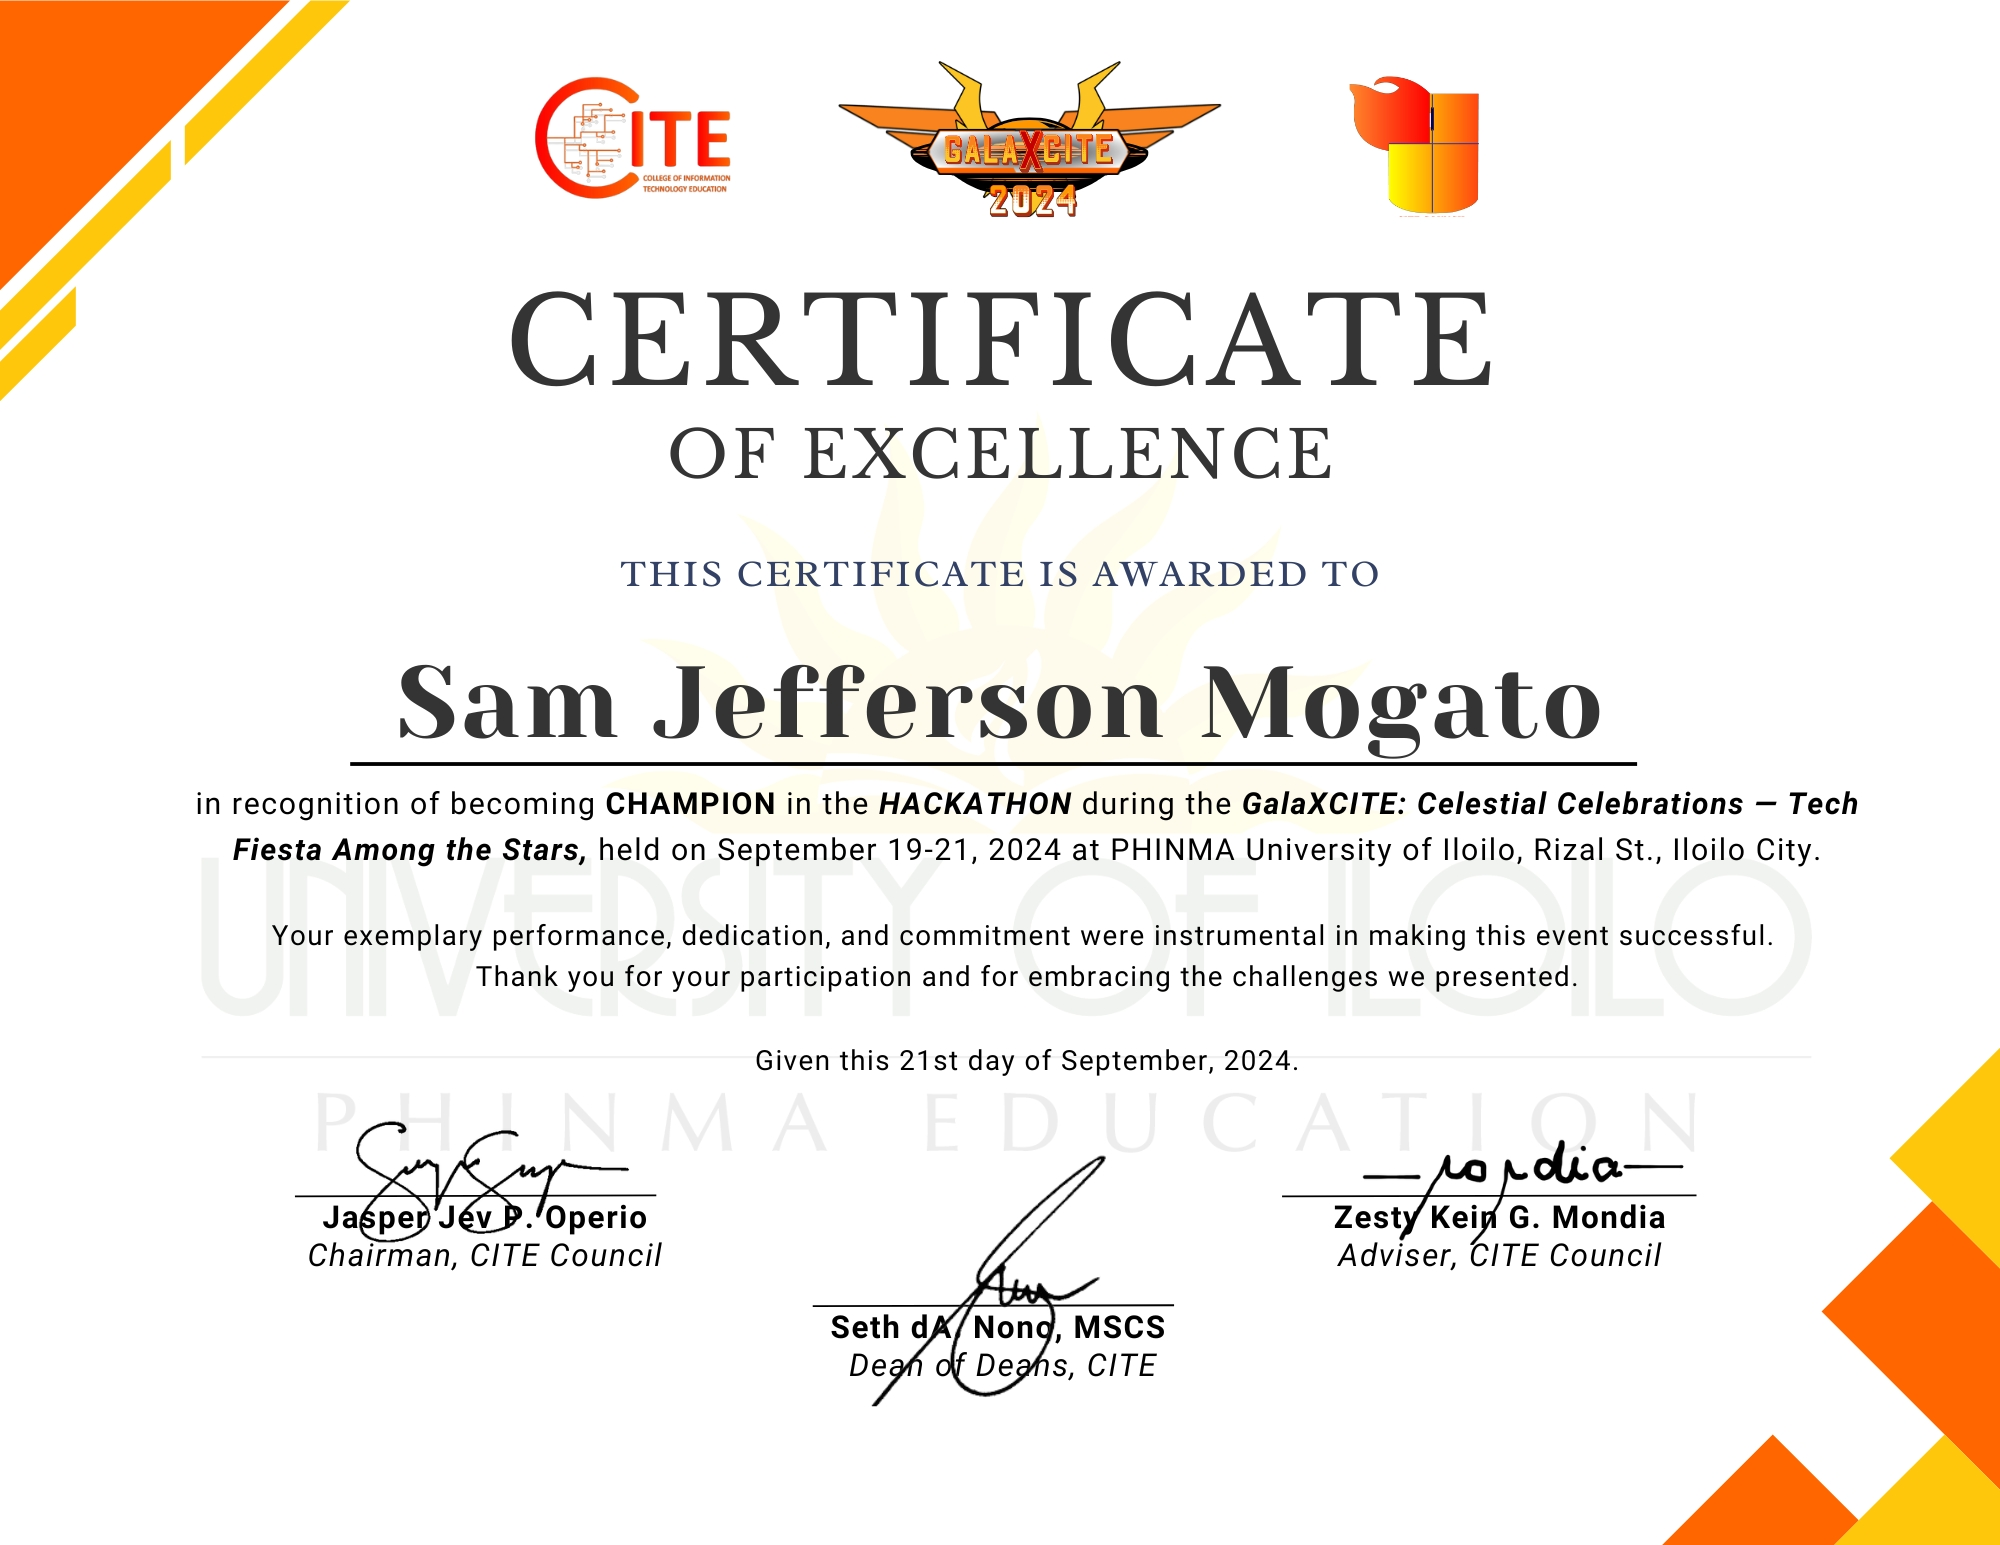
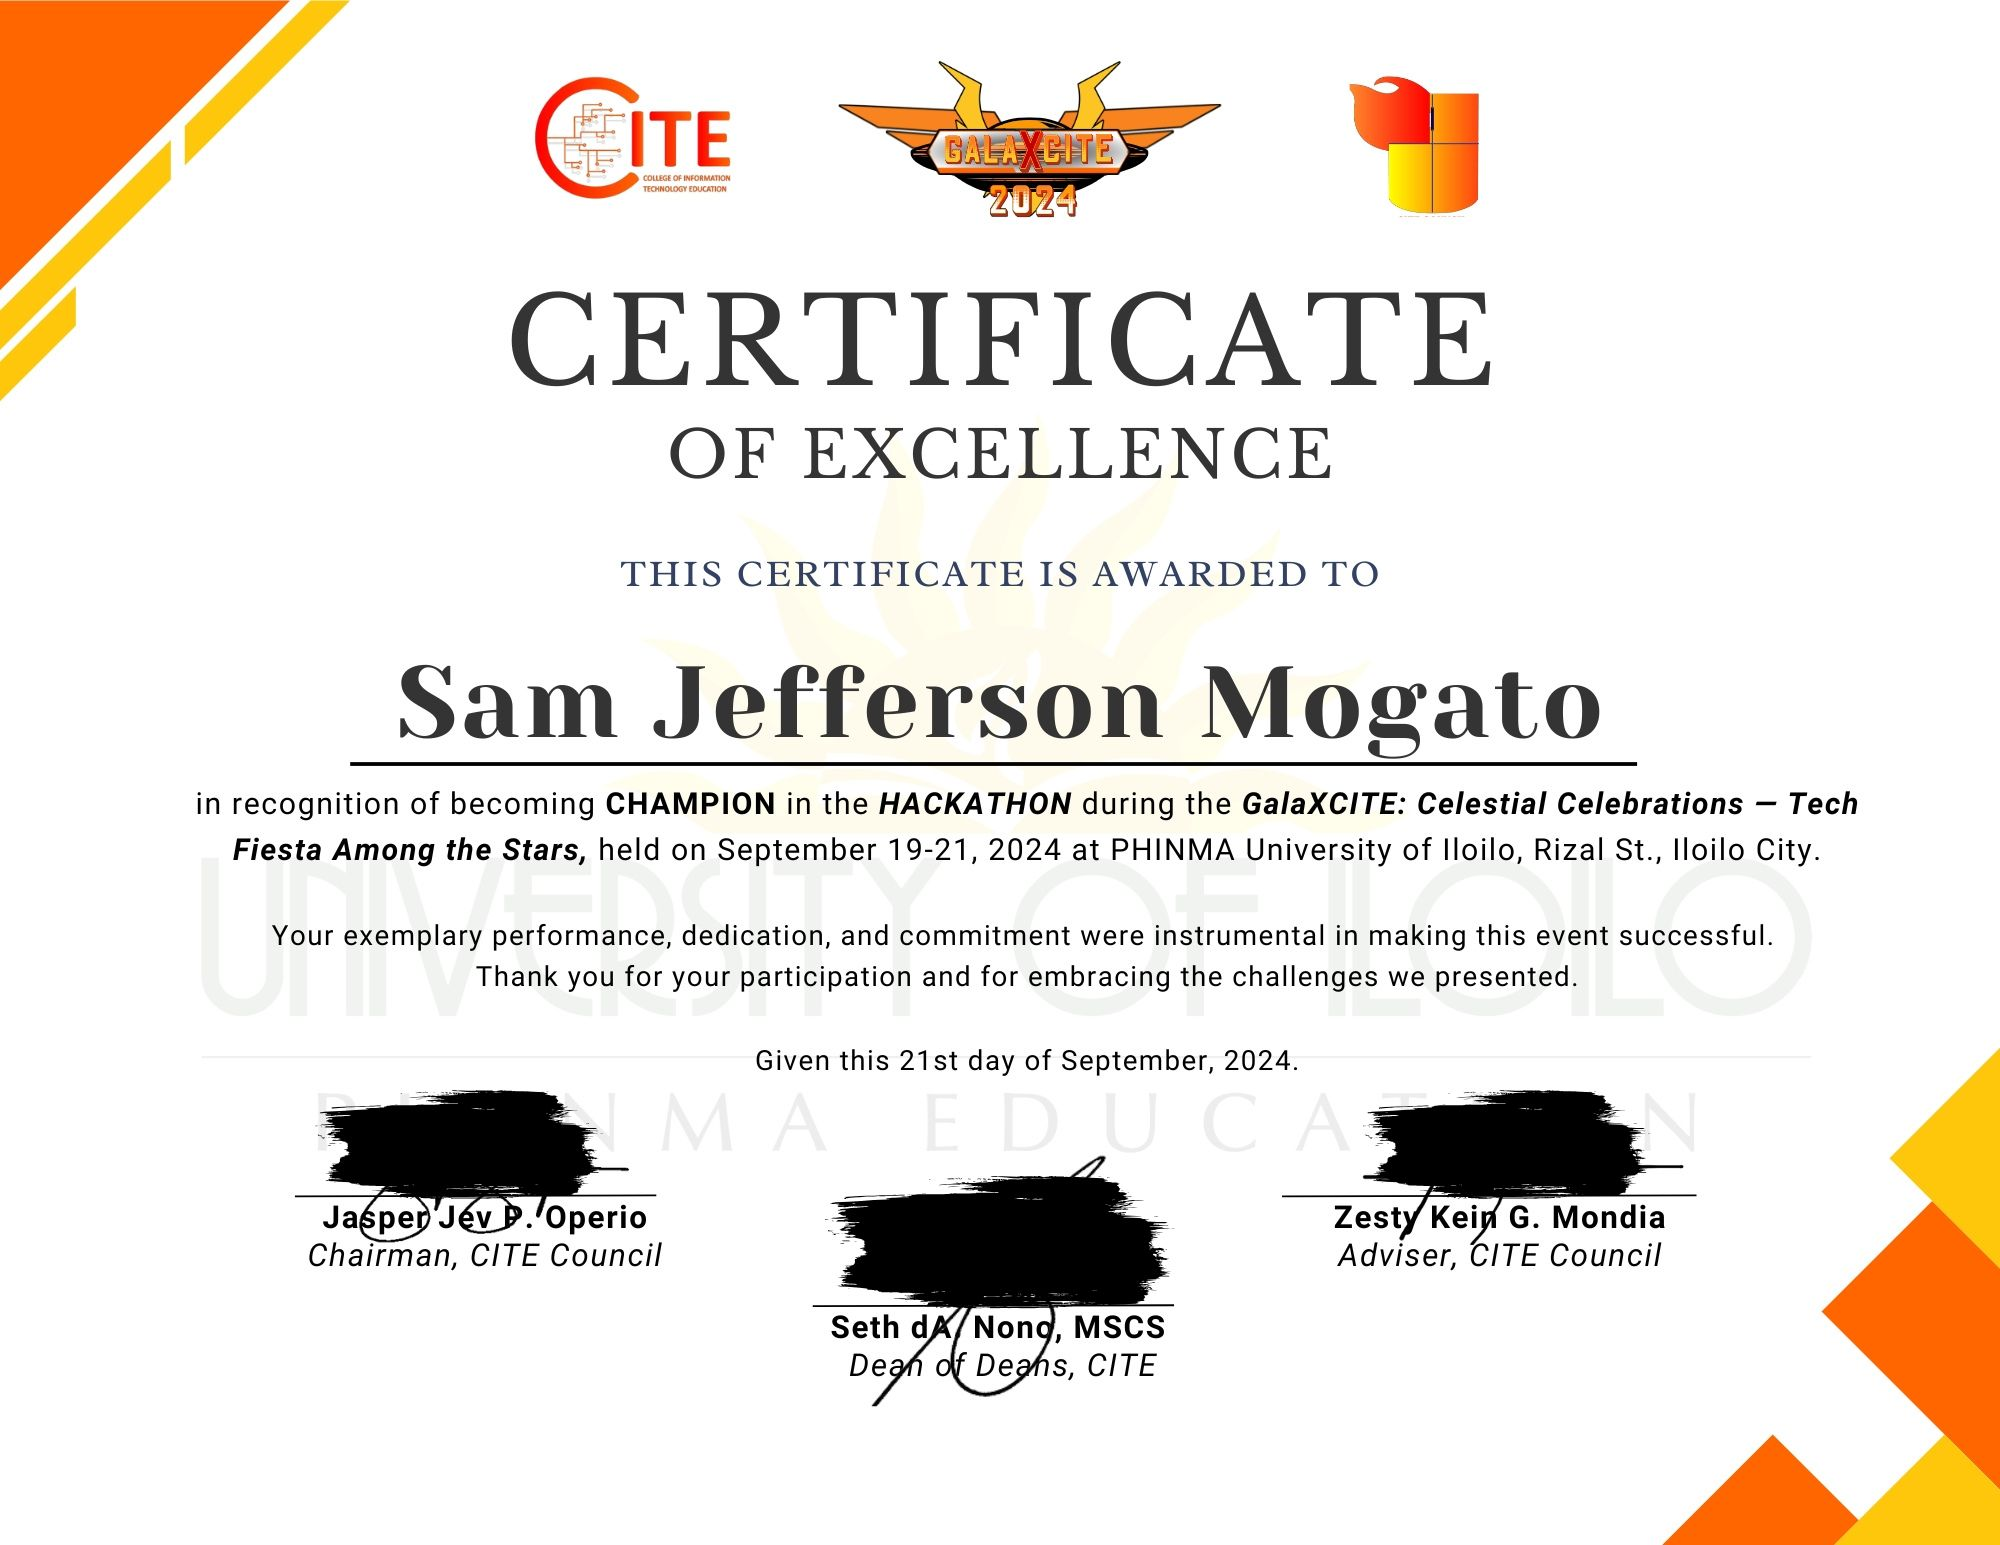
feat: added view link for achievements

Changed region(s): [[0.403, 0.7456, 0.589, 0.8699], [0.682, 0.6835, 0.837, 0.7767], [0.155, 0.6835, 0.31, 0.7767]]

diff --git a/src/components/Achievements.tsx b/src/components/Achievements.tsx
@@ -12,43 +12,43 @@ const Achievements = () => {
       title: 'Hack4Gov Year 2',
       description: 'Hack4Gov Aug. 18, 2023 - 2nd runner up',
       img: h4g2Img,
-      link: ''  
+      link: 'https://drive.google.com/file/d/1kn1m52ZZb8syfQOwTukdJRr8cNtT5qSb/view?usp=sharing'  
     },
     {
       title: 'Hack4Gov Year 3',
       description: 'Participated in Hack for Gov Competition - 2024',
       img: h4g3Img,
-      link: ''  
+      link: 'https://drive.google.com/file/d/1cpwX631mW2c3bdBcrMsYar2ejfdYvxaU/view?usp=sharing'  
     },
     {
       title: 'Hack4Gov Year 4',
       description: '4th Placer in Hack for Gov Competition - 2025',
       img: h4g4Img,
-      link: ''  
+      link: 'https://drive.google.com/file/d/17_GKLtgj65HYDEmjAVdSlOZ62Eu815u5/view?usp=sharing'  
     },
     {
       title: 'CITE Week Hackathon',
       description: 'Champion in CITE Week Hackathon sept. 2024 at Phinma University of Iloilo',
       img: hackathonChampionImg,
-      link: ''  
+      link: 'https://drive.google.com/file/d/1auCtGE5eb5srFarw2dZbCiMSCzZIeTev/view?usp=sharing'  
     },
     {
       title: 'GameJam - Calle real ST.',
       description: "Best in narative & People's choice award",
       img: gamejamImg,
-      link: ''  
+      link: 'https://drive.google.com/file/d/1FaliRJ2OGCcXP1JWDeyvPf_TlchRUWr-/view?usp=sharing'  
     },
     {
       title: 'Stack League - Gold rush',
       description: 'Participated in Stack league stack trek celestial gold rush - 2023',
       img: stacktreckImg,
-      link: ''
+      link: 'https://drive.google.com/file/d/1S1Awoz7UeEre-9wRsC33-yF2fPQE9CSd/view?usp=sharing'
     },
     {
       title: '"JS Prom" JavaScript Programming - Completed',
       description: 'Successfully Completing the JS prom javascript workshop at Phinma University of Iloilo',
       img: jsCompletionImg,
-      link: ''
+      link: 'https://drive.google.com/file/d/1jIOFqT2h7kizgQUaNLkCtbvr7dB6DJFZ/view?usp=sharing'
     },
   ]
 

diff --git a/src/components/Projects.tsx b/src/components/Projects.tsx
@@ -15,14 +15,14 @@ const Projects = () => {
       description: `Built an intelligent study platform featuring a Next.js frontend and a Python backend 
       that processes video transcripts using AI. Automated the generation of structured study notes, 
       drastically reducing manual note taking time.`,
-      link: '',
+      link: 'https://github.com/MOGAT0/MeTube',
       tags: ['Next.js','Node.js','Express','Python','Clerk','Drizzle','Prisma']
     },
     {
       title: 'POS Mobile',
       year: '2025',
       description: 'Developed a mobile Point-of-Sale (POS) application using React Native, Node.js and PostgreSQL to streamline retail checkout operations for small business owners.',
-      link: '',
+      link: 'https://github.com/MOGAT0/pos-mobileApplication',
       tags: ['React Native','Expo','Express.js','Node.js','PostgreSQL', 'ZeroTier One']
     },
     {
@@ -32,7 +32,7 @@ const Projects = () => {
       and manage personal budgets. Implemented logic to categorize
       spending and provide real-time budget tracking, helping users achieve
       financial goals.`,
-      link: '',
+      link: 'https://github.com/MOGAT0/budgeting-app',
       tags: ['Java','MySQL']
     }
   ]
